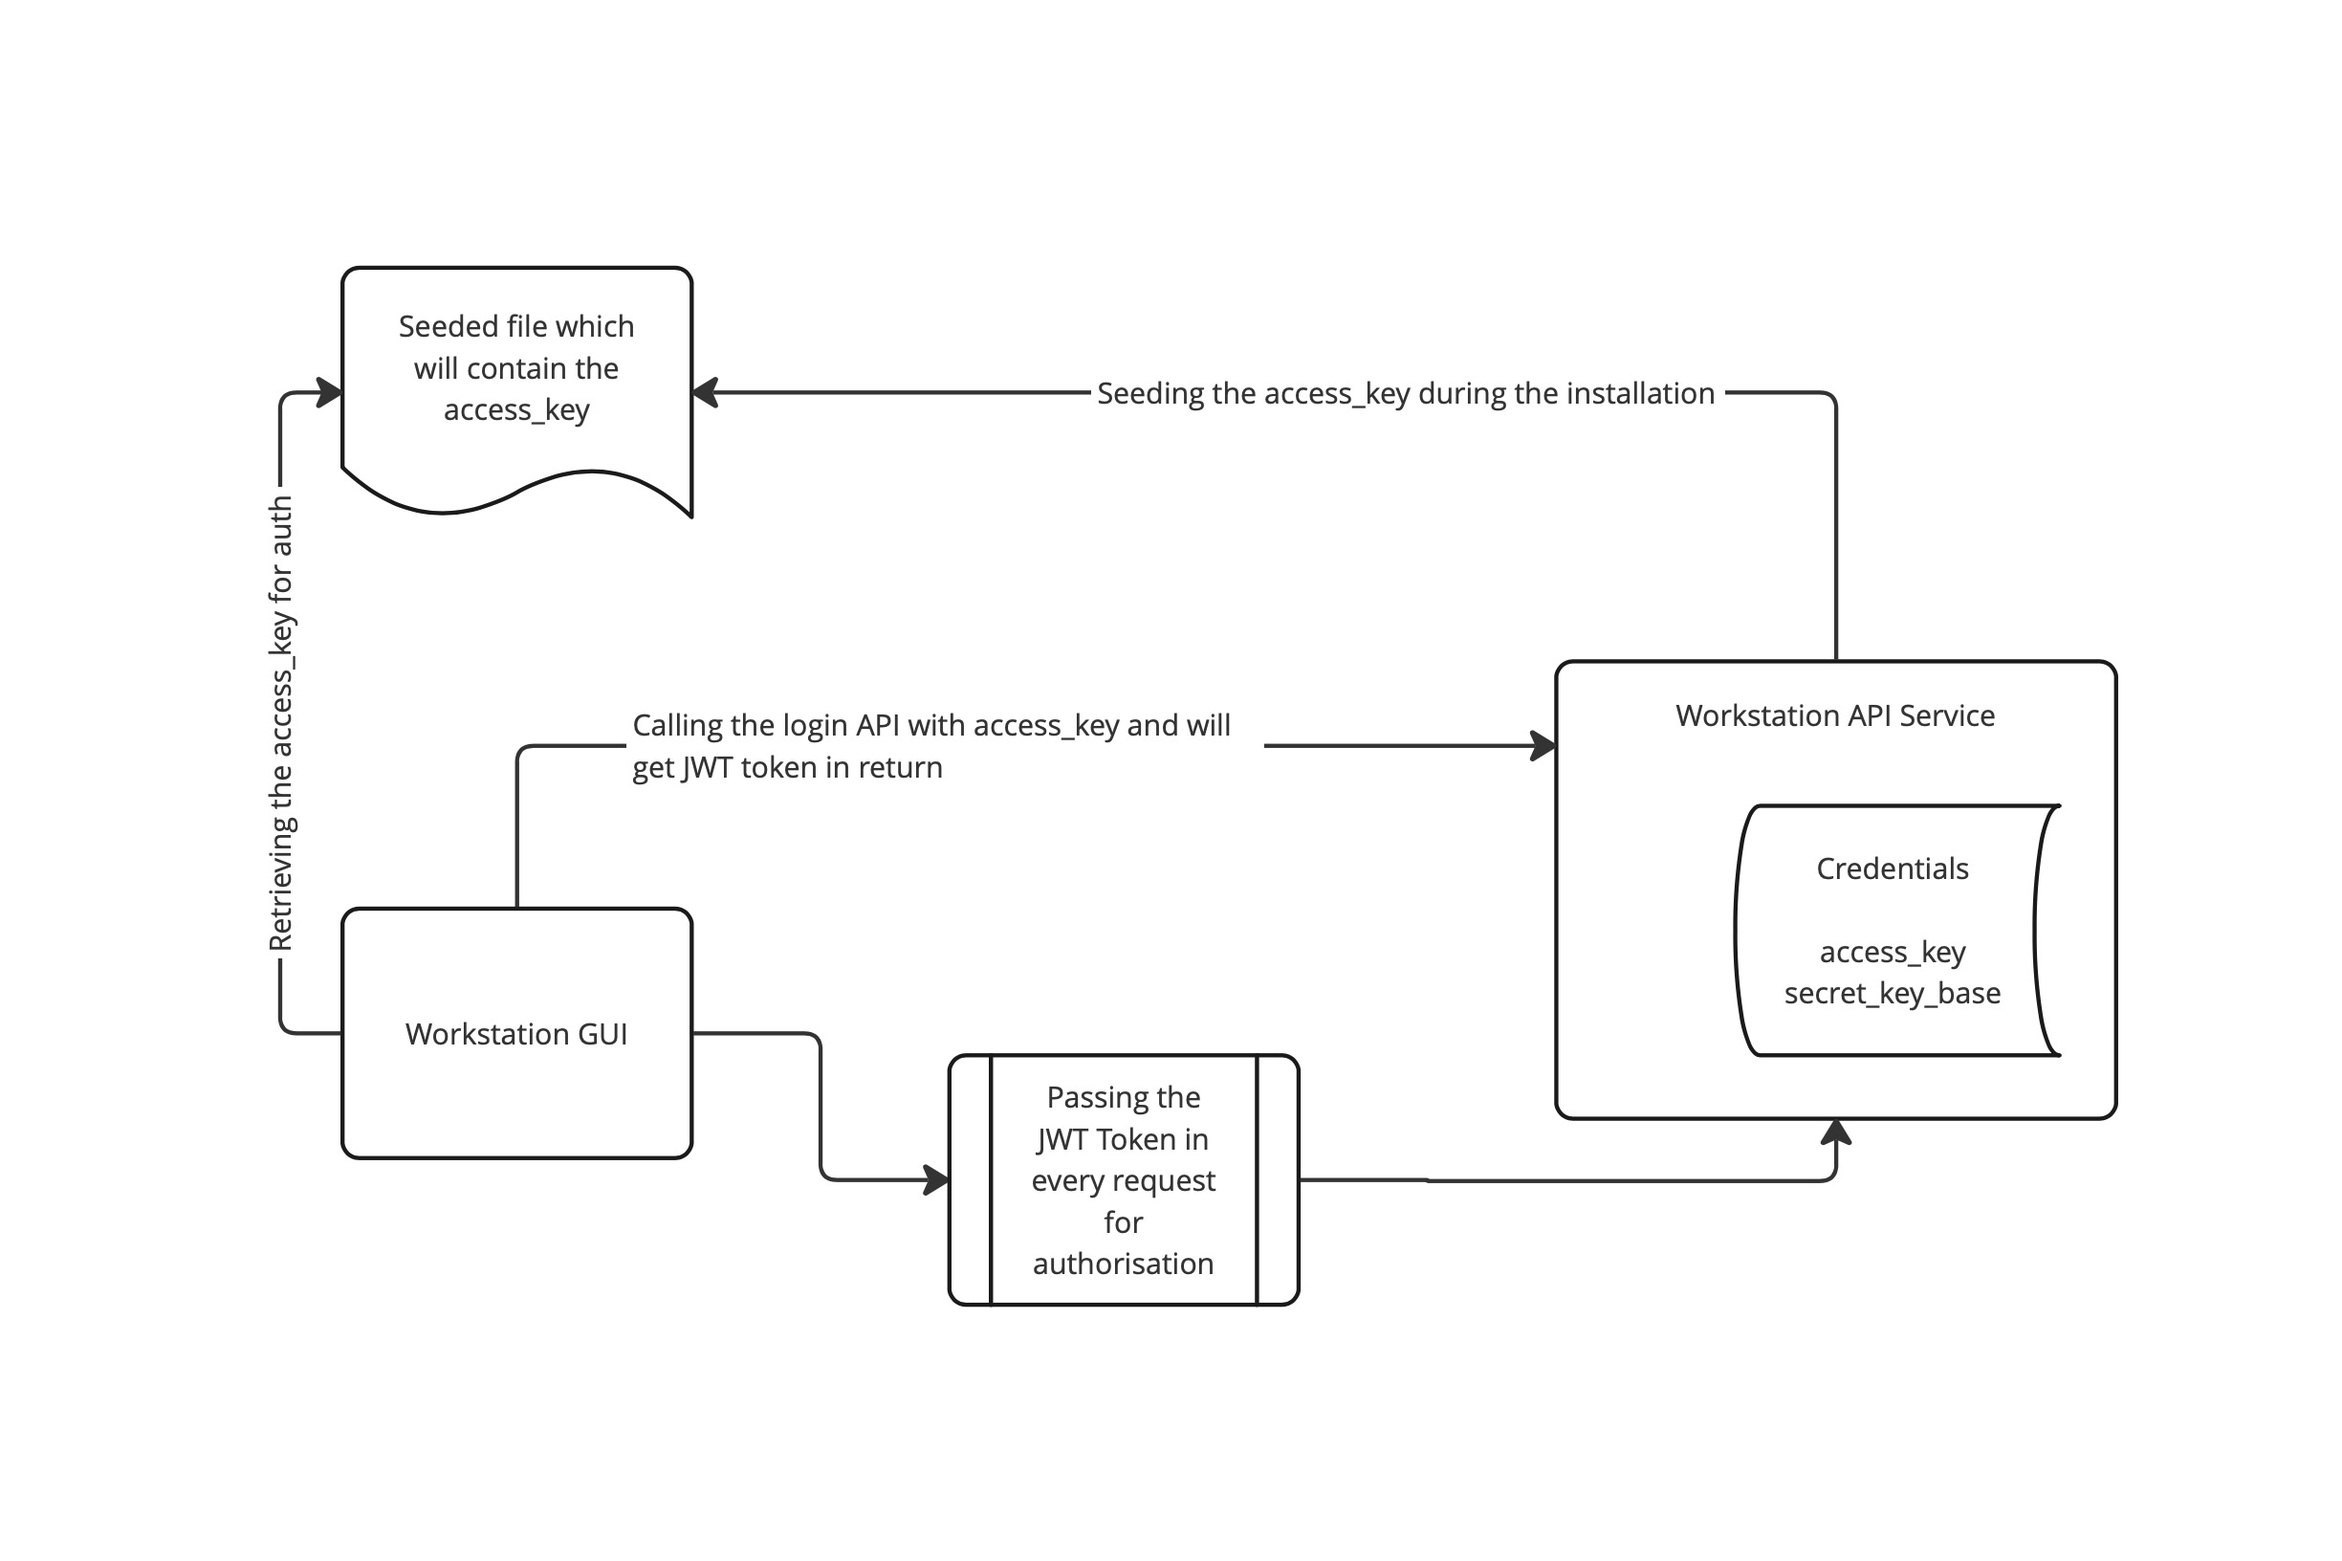
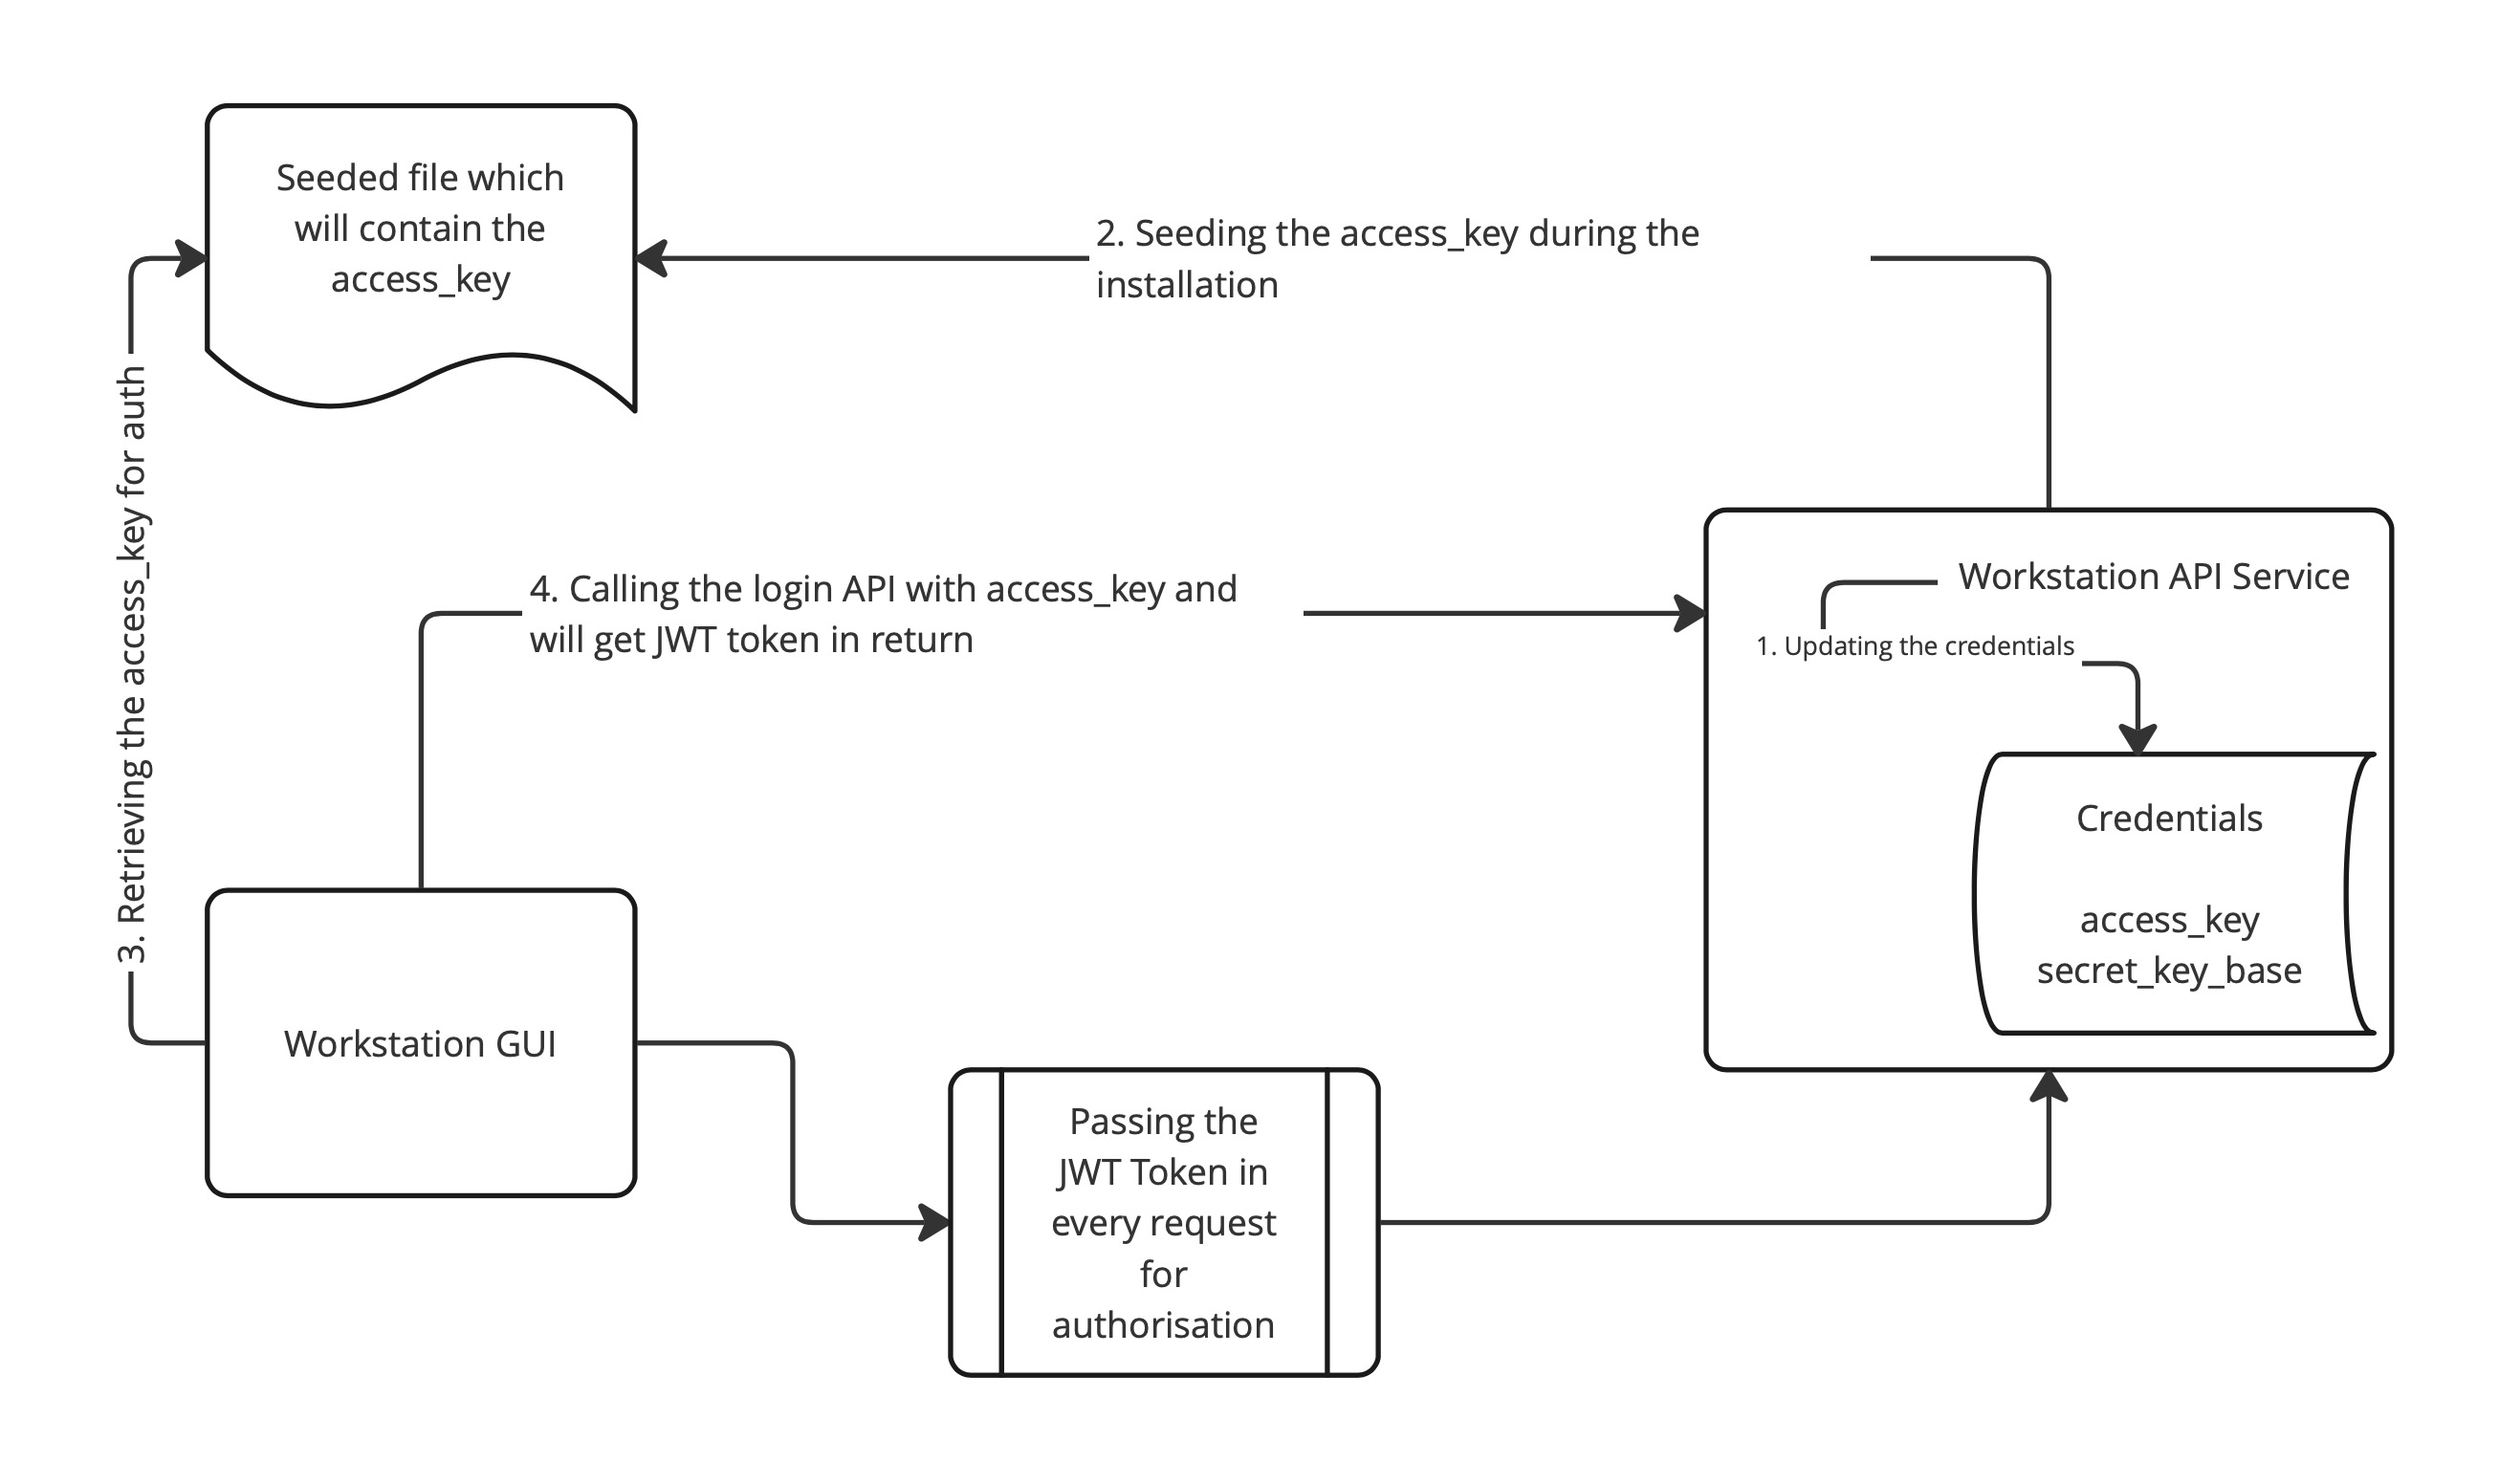
Updated the documentation as per the review comments

diff --git a/dev-docs/architecture/workstation-api-service.md b/dev-docs/architecture/workstation-api-service.md
@@ -1,20 +1,21 @@
 # Workstation API Service
 ## Overview
 
-This service is a REST API built using Ruby on Rails that serves as an intermediary between the Workstation GUI app and the chef cli.
-The chef and knife cli gems are bundled with this service, and the functionalities will be exposed through API so that the Workstation GUI app can consume those and carry out the corresponding actions.
+This service is a REST API built using Ruby on Rails that serves as an intermediary between the Workstation GUI app, the chef cli and knife gems.
+The chef-cli and knife gems included in the workstation are loaded with this service, and their functionalities will be exposed through API so that the Workstation GUI app can consume those and carry out the corresponding actions.
 
 ## Authentication
 
-A simple JWT Token based authentication is implemented in order to prevent API invocation from unidentified apps and to confirm the legitimacy of the workstation GUI app.
-We are utilising a random access key that will be generated during the installation on the user's machine to authenticate the API.
+A simple JWT Token based authentication is implemented in order to prevent API invocation from unidentified/remote apps and to confirm the legitimacy of the workstation GUI app.
+We are utilising a random `access_key` that will be generated during the installation on the user's machine to authenticate the API.
 
 Below is a list of all the procedures involved in the JWT authentication.
 
-- A new access key and secret key will be generated by the rails application and saved in the rails credentials during the workstation installation.
-- Then the access_key will be copied to a file inside the installation directory so that the GUI can access that file and use the access_key for authentication.
-- GUI will call the login API with the access_key. 
-- The server will verify the access_key with the one saved in the credentials and generated a new JWT token if it is valid.
-- The GUI can later on use the JWT token to access the protected URLs. 
+- A new `access_key` and `secret_key_base` will be generated by the rails application and saved in the rails credentials in encoded form during the workstation installation.
+- Then the `access_key` will be copied to a file inside the installation directory so that the GUI can access that file and use the `access_key` for authentication.
+- GUI will call the login API with the `access_key`.
+- The server will verify the `access_key` with the one saved in the credentials and generated a new JWT token using the `secret_key_base` if it is valid.
+- The GUI can later on use the JWT token to access the protected URLs.
+- In 24 hours, the JWT token will expire. When the current one expires, a new one can be obtained via the auth API.
 
 ![plot](ws_api_auth.jpg)
